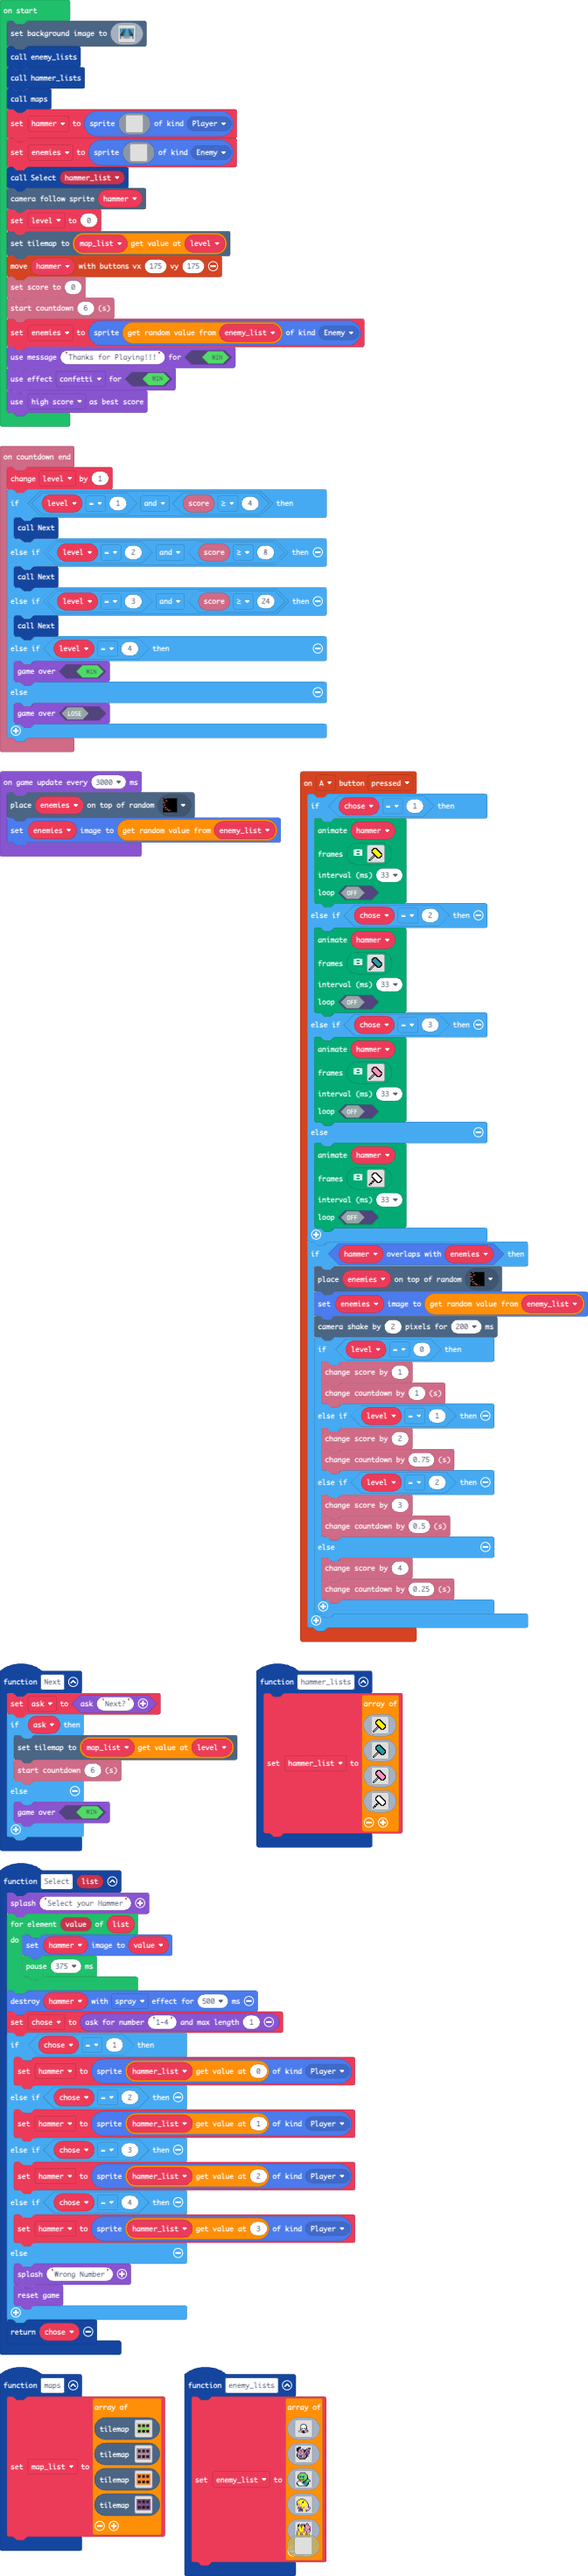
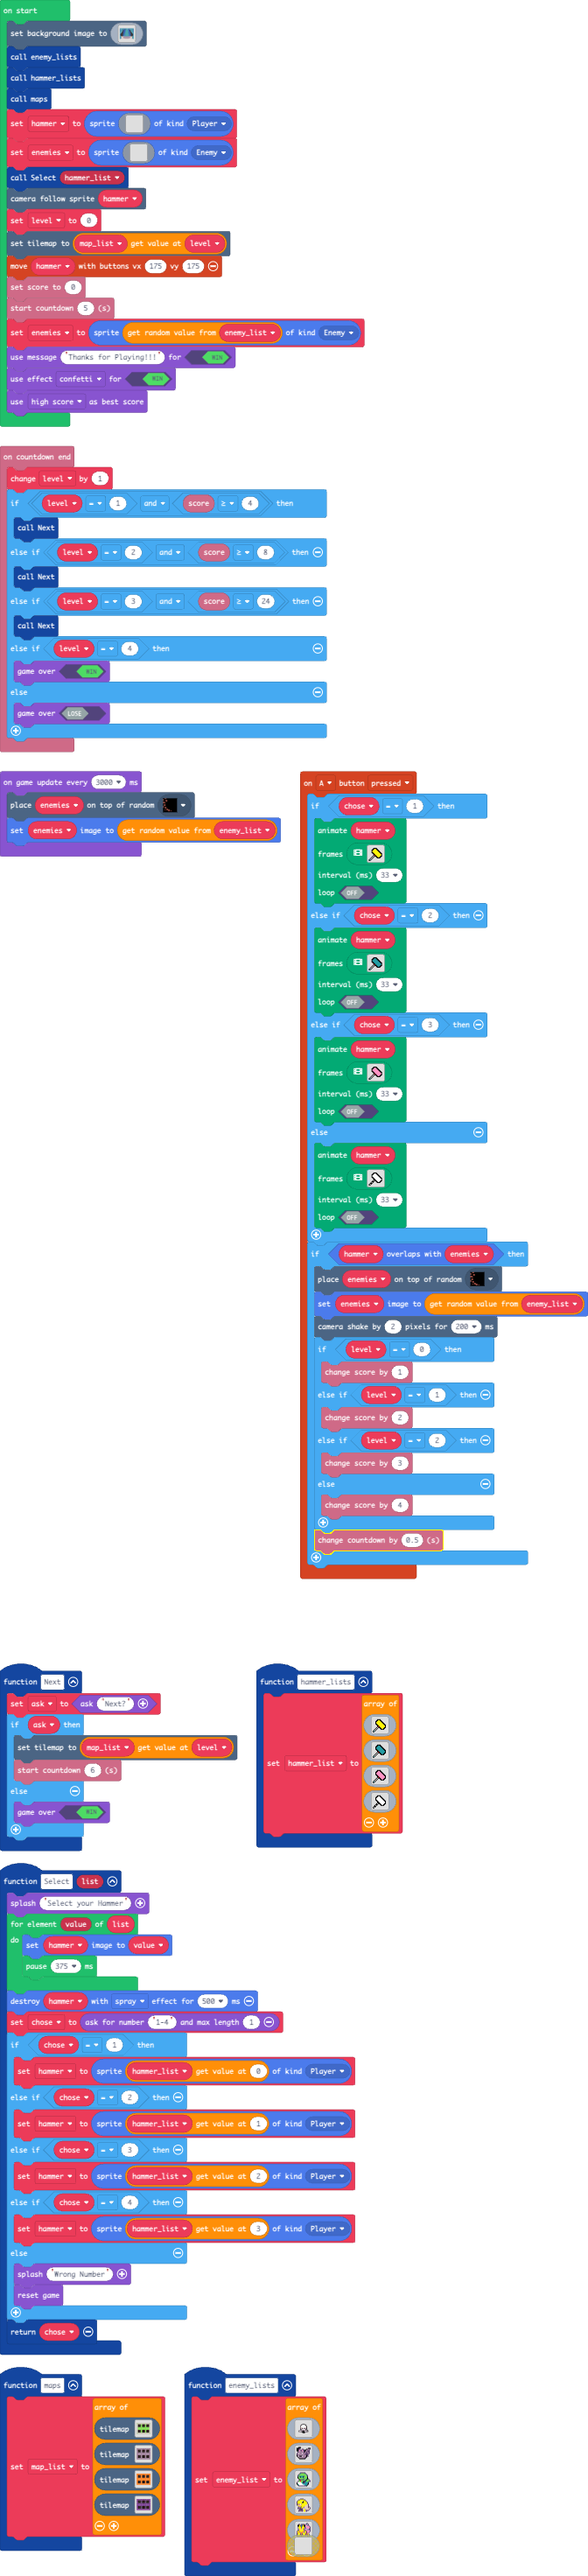
Update main.blocks, main.ts

Changed region(s): [[0.5, 0.5312, 0.9062, 0.6562]]

diff --git a/main.ts b/main.ts
@@ -374,17 +374,14 @@ controller.A.onEvent(ControllerButtonEvent.Pressed, function () {
         scene.cameraShake(2, 200)
         if (level == 0) {
             info.changeScoreBy(1)
-            info.changeCountdownBy(1)
         } else if (level == 1) {
             info.changeScoreBy(2)
-            info.changeCountdownBy(0.75)
         } else if (level == 2) {
             info.changeScoreBy(3)
-            info.changeCountdownBy(0.5)
         } else {
             info.changeScoreBy(4)
-            info.changeCountdownBy(0.25)
         }
+        info.changeCountdownBy(0.5)
     }
 })
 function Select (list: Image[]) {
@@ -793,7 +790,7 @@ level = 0
 tiles.setCurrentTilemap(map_list[level])
 controller.moveSprite(hammer, 175, 175)
 info.setScore(0)
-info.startCountdown(6)
+info.startCountdown(5)
 enemies = sprites.create(enemy_list._pickRandom(), SpriteKind.Enemy)
 game.setGameOverMessage(true, "Thanks for Playing!!!")
 game.setGameOverEffect(true, effects.confetti)
